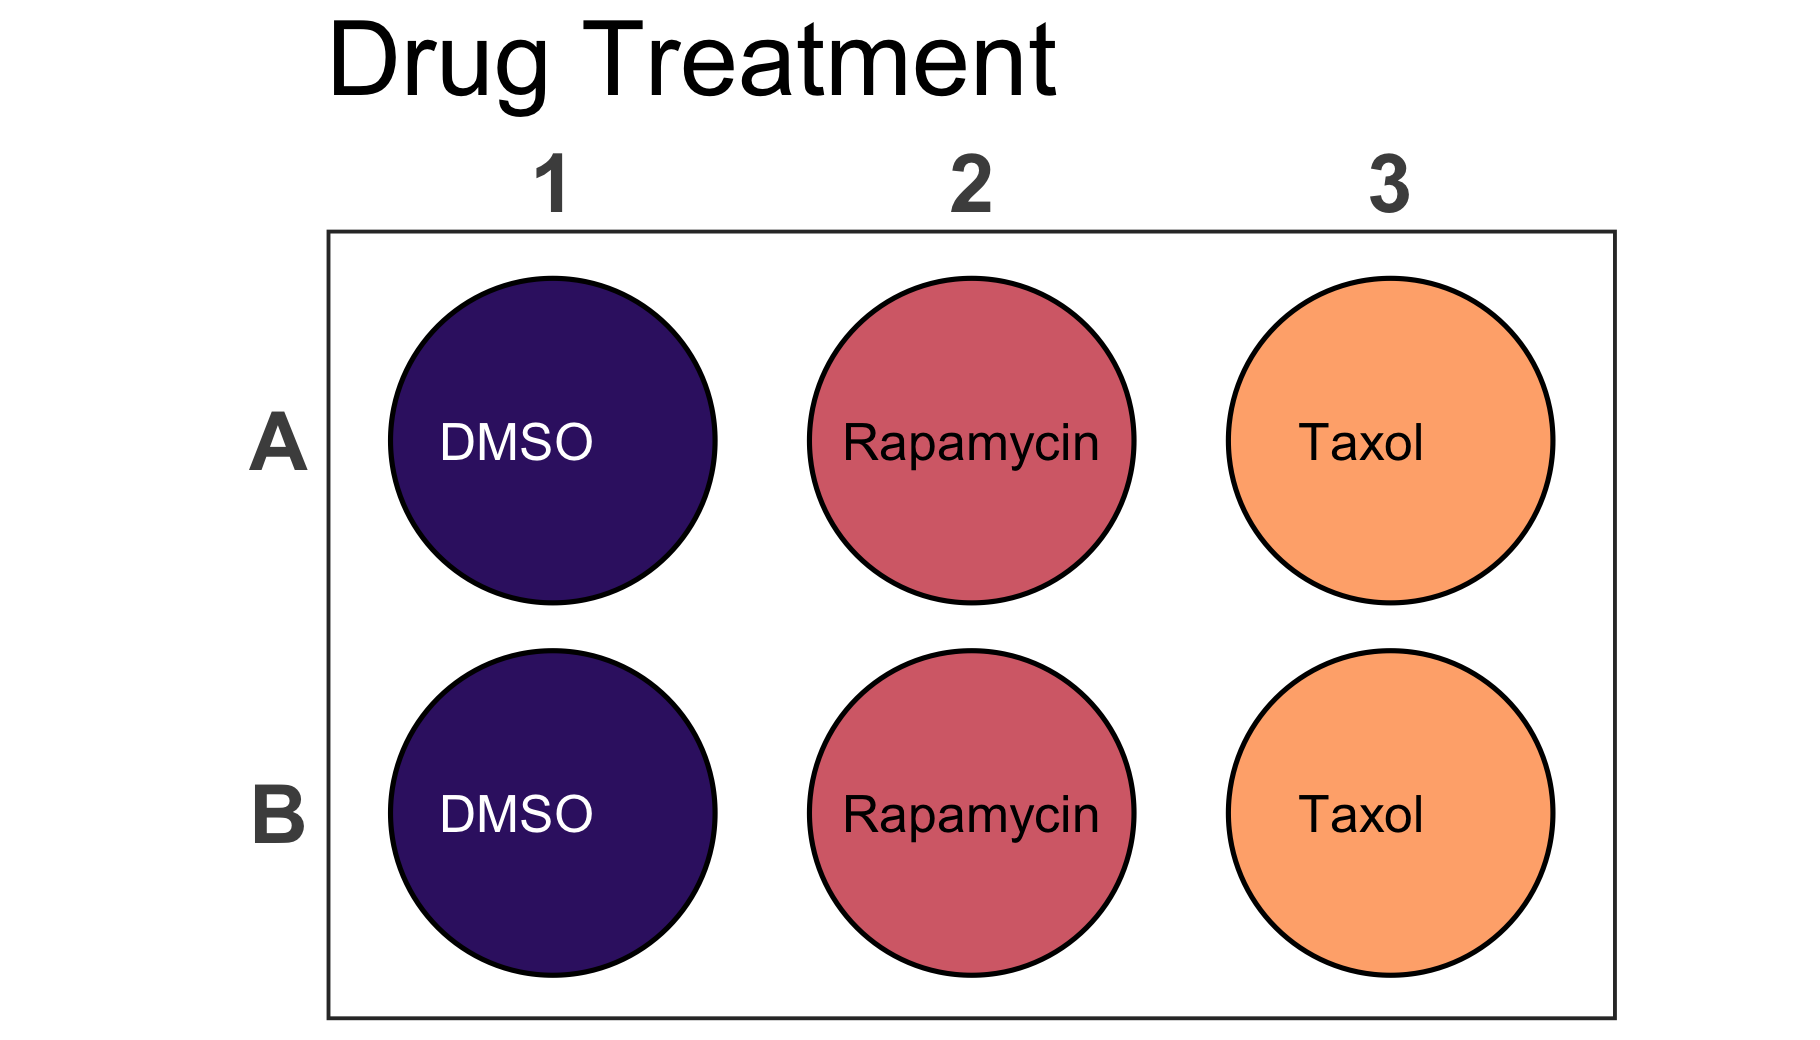
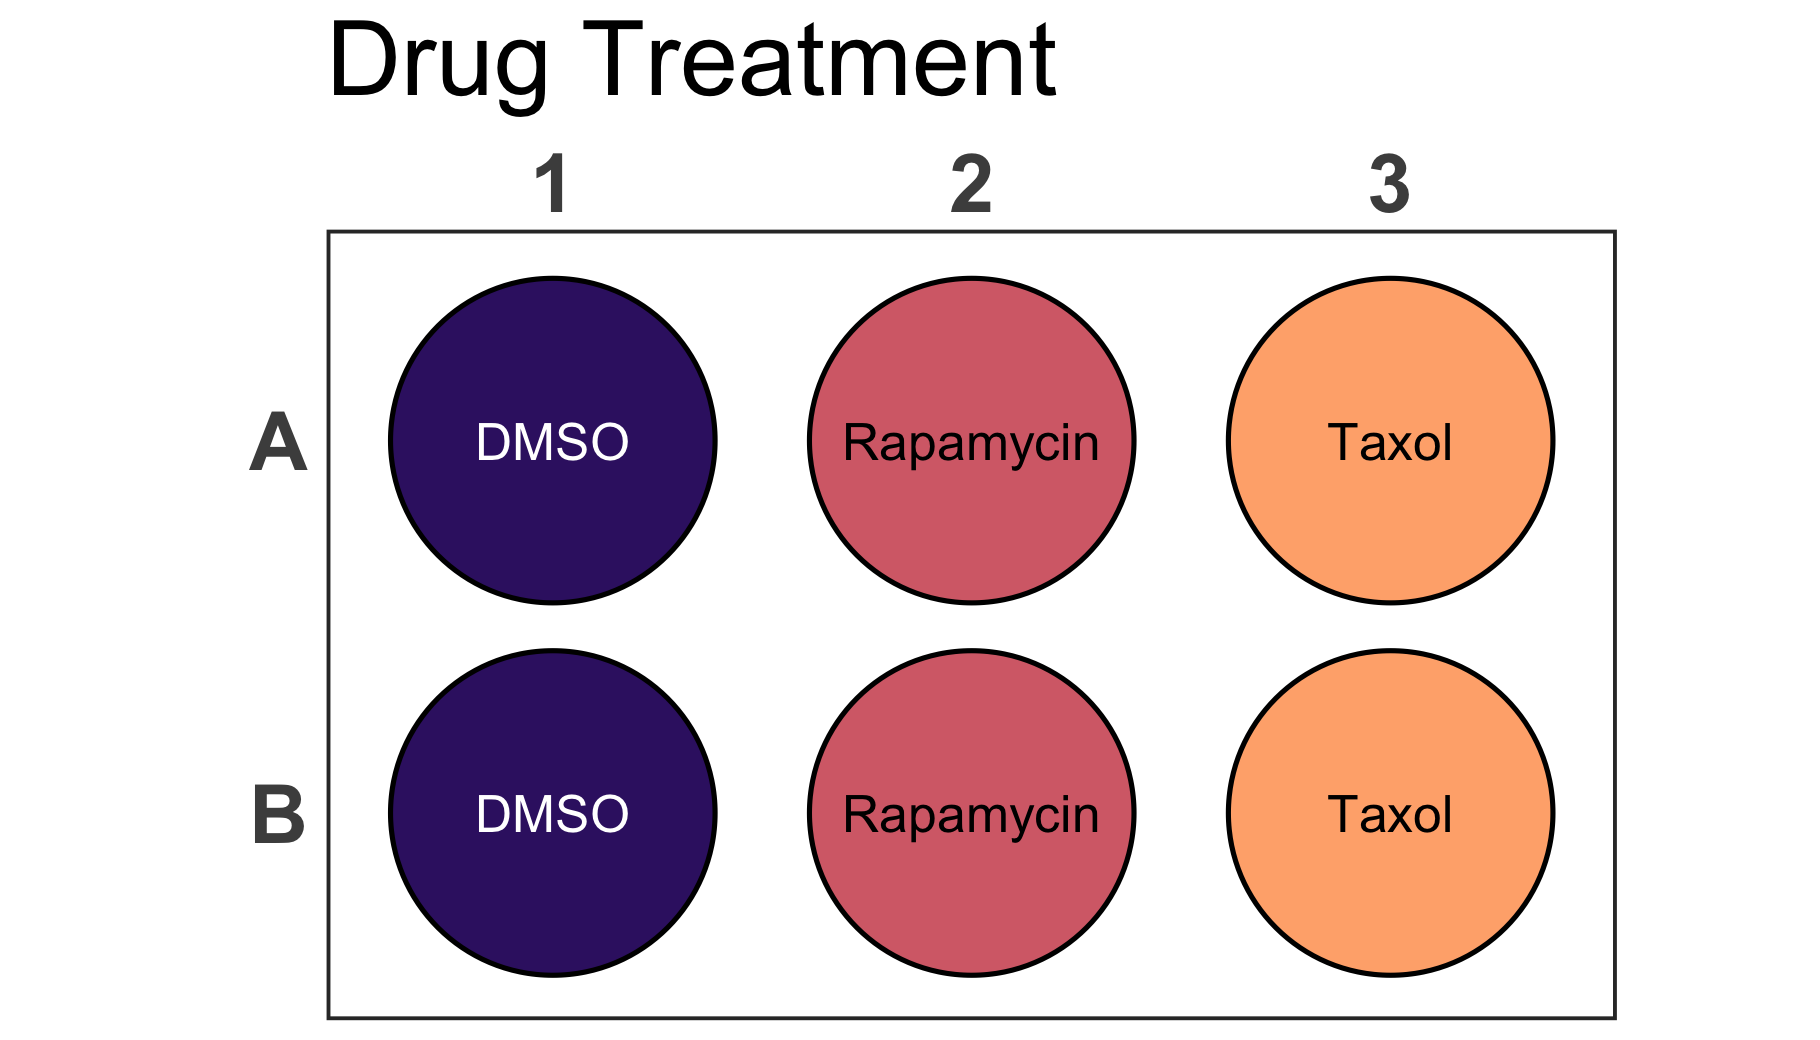
Fix format for text

diff --git a/NEWS.md b/NEWS.md
@@ -1,6 +1,7 @@
 # ggplate 0.1.1
 
 * Fix R version requirement. Is now `4.1.0` and not `4.0.0` anymore. This fixes issue #15.
+* Fix issue introduced in version 0.1.0. While attempting to remove trailing zeros, we inadvertently introduced some undesired side effects associated with the format() function. This resulted in incorrectly formatted text labels due to leading and trailing whitespaces.
 * Update documentation to inform about `conda` package version. 
 * Update documentation to inform about potentially undesired behavior of new graphics device being opened by function when used in command line. This can be suppressed by setting `scale` argument.
 

diff --git a/cran-comments.md b/cran-comments.md
@@ -1,6 +1,7 @@
 ## Submission 
 
-* Fixed two bugs in the `plate_plot()` function.
+* Fixed a bug in the `plate_plot()` function (see NEWS).
+* Also updated the R version requirement, which was incorrectly set to `4.0.0`, while at least `4.1.0` is needed.
 
 ## Test environments
 * macOS-latest (on GitHub actions), R 4.3.2
